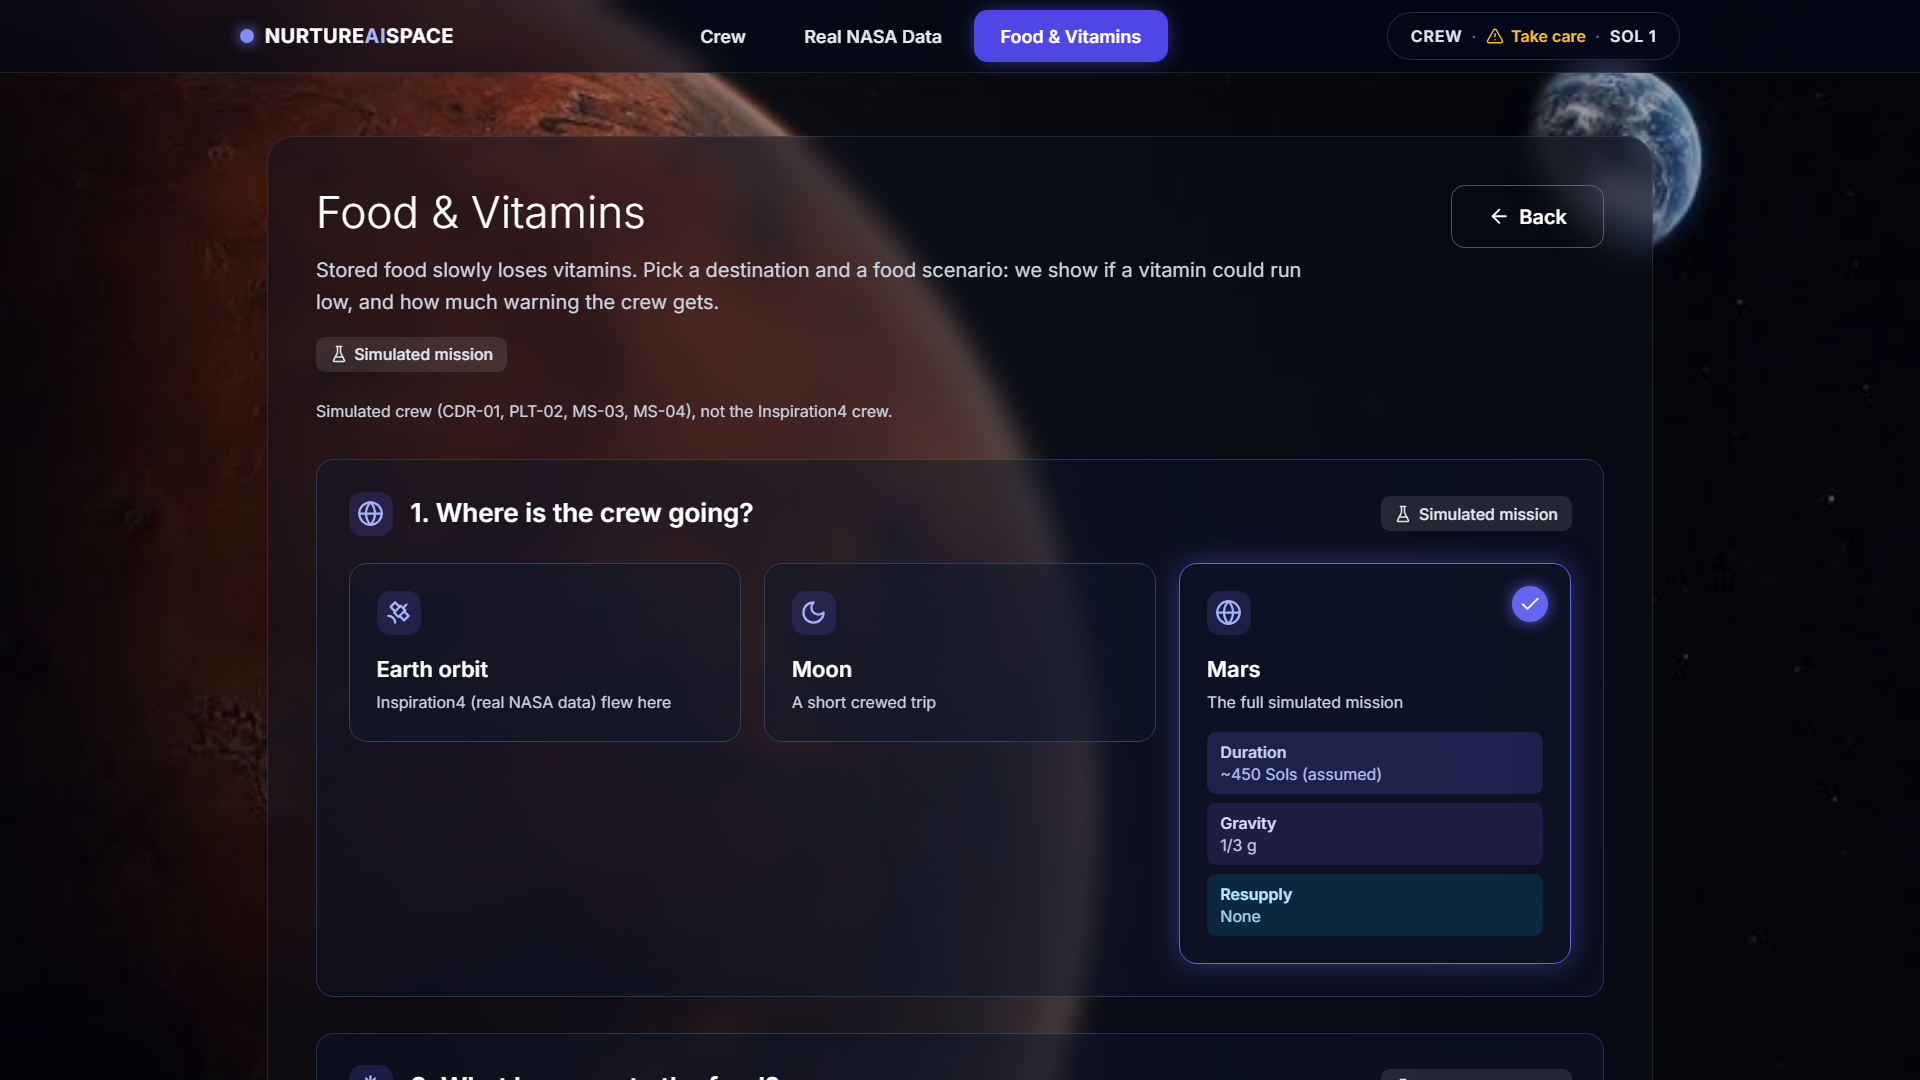
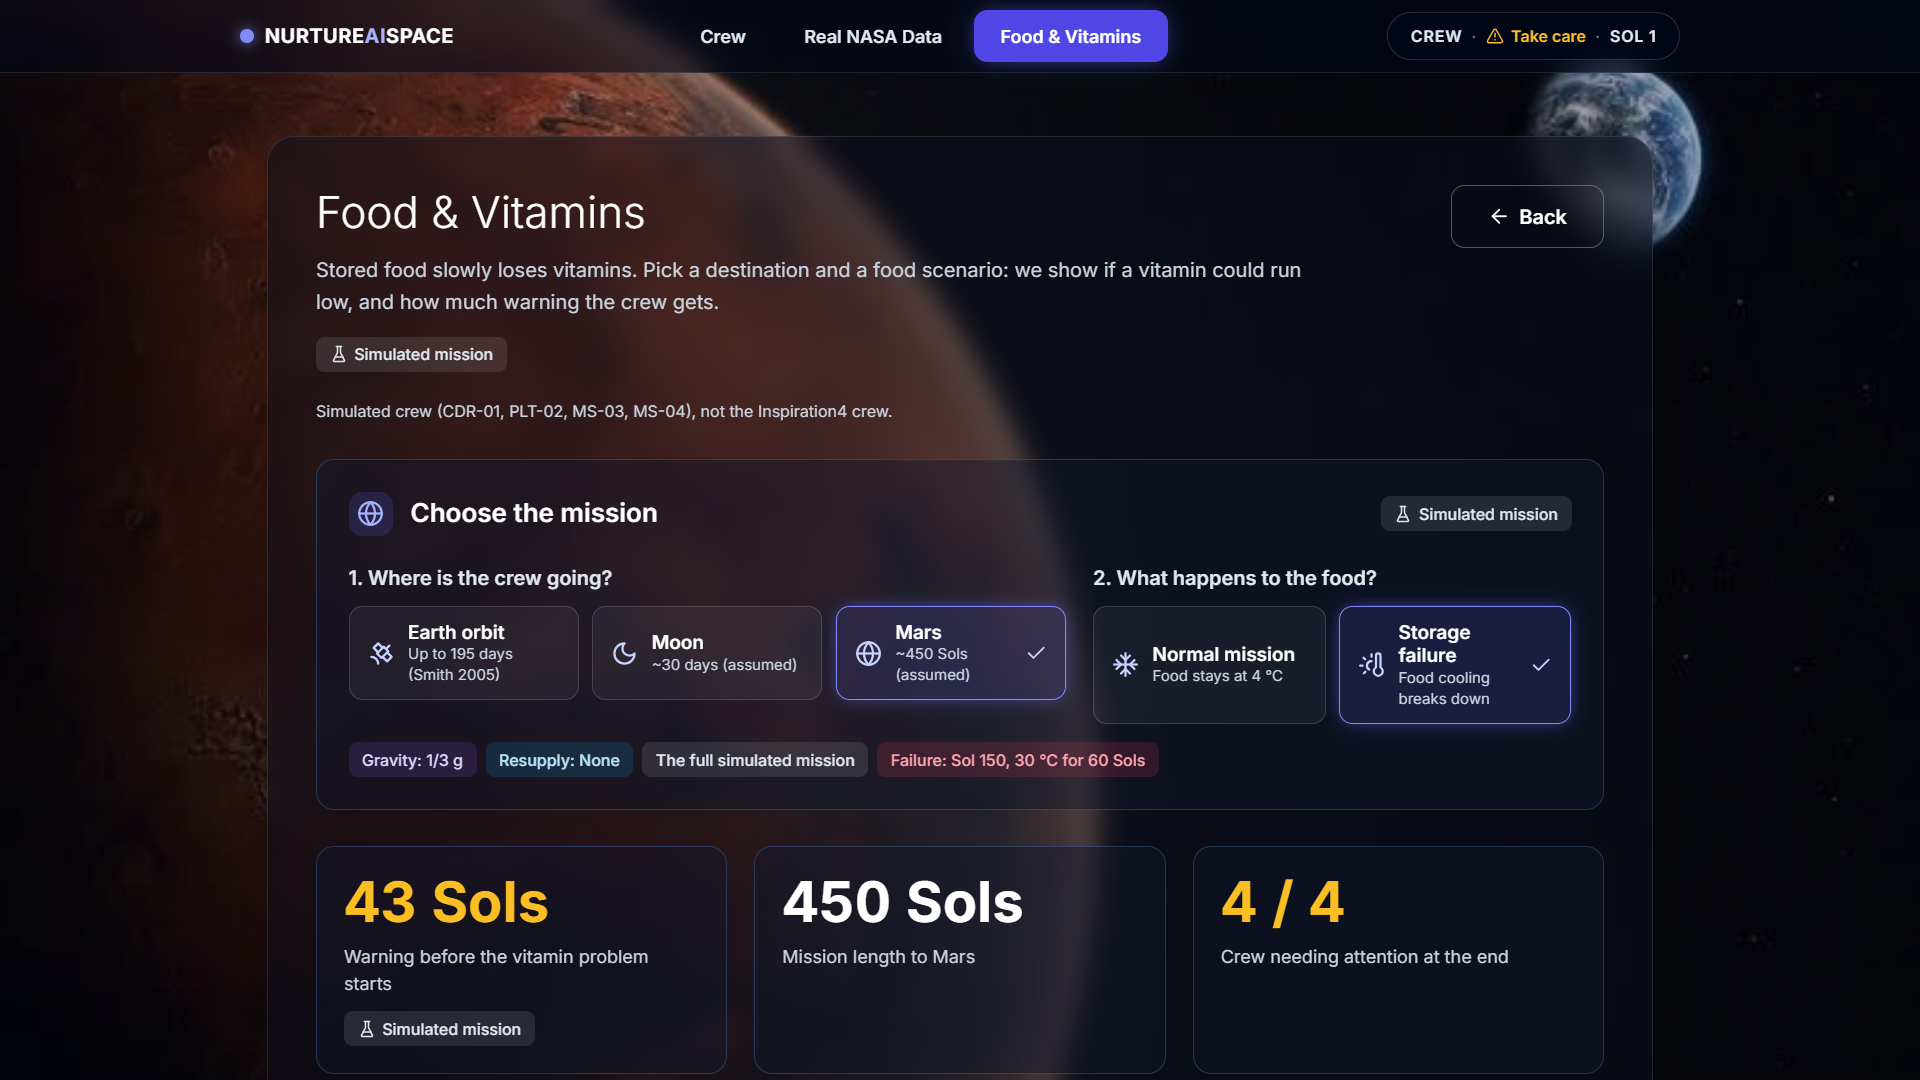
Food: headline above fold, post-mission failure note, fewer tags

diff --git a/frontend/src/components/PredictionView.tsx b/frontend/src/components/PredictionView.tsx
@@ -5,13 +5,14 @@
 //   block holds every Sol/day number shown here (warning, problem, per-crew vitamins, cooling failure, mission end).
 // A destination changes only the mission length (forecast horizon); the model is the same for all three.
 import React, { useEffect, useState } from 'react';
+import type { LucideIcon } from 'lucide-react';
 import {
-  ArrowRight, Flag, Globe, Moon, Pill, Satellite, ShieldAlert, Snowflake, ThermometerSun, Users,
+  ArrowRight, Check, Flag, Globe, Moon, Pill, Satellite, ShieldAlert, Snowflake, ThermometerSun, Users,
 } from 'lucide-react';
 import { fetchCrewPresetHorizon, fetchCrewScenarios } from '../api';
 import type { CrewDestination, CrewHealthSnapshot, CrewHorizon, CrewMemberStatus, CrewScenarioPreset, SolDay } from '../types';
 import {
-  Bullets, Details, ErrorBox, GlassPanel, KVList, KVRow, Loading, Section, SelectCard, SourceTag, StatTile, StatusBadge,
+  Bullets, Chip, Details, ErrorBox, GlassPanel, KVList, KVRow, Loading, Section, SourceTag, StatTile, StatusBadge,
 } from '../ui/glass';
 
 const NORMAL_ID = 'nominal';
@@ -158,6 +159,40 @@ const VitaminCard: React.FC<{ m: CrewMemberStatus; v: CrewHorizon['per_astronaut
   </div>
 );
 
+/** Compact one-row selector (icon + title + one line). Selected = indigo border + check. */
+const OptionButton: React.FC<{ selected: boolean; onClick: () => void; icon: LucideIcon; title: string; line: string }> = ({
+  selected, onClick, icon: I, title, line,
+}) => (
+  <button type="button" onClick={onClick} aria-pressed={selected} data-selected={selected}
+    className={`flex min-h-[72px] w-full items-center gap-3 rounded-xl border px-4 py-3 text-left transition ${
+      selected ? 'border-indigo-400 bg-indigo-500/15 shadow-[0_0_18px_-4px_rgba(99,102,241,0.8)]' : 'border-white/15 bg-white/5 hover:border-white/30'}`}>
+    <I className="h-6 w-6 shrink-0 text-indigo-200" aria-hidden />
+    <span className="min-w-0 flex-1">
+      <span className="block text-[19px] font-semibold leading-tight text-white">{title}</span>
+      <span className="block text-[15px] leading-snug text-slate-300">{line}</span>
+    </span>
+    {selected && <Check className="h-5 w-5 shrink-0 text-indigo-200" aria-hidden />}
+  </button>
+);
+
+/** Headline answer: lead time, "all OK", or "the failure starts after this mission ends" (all values from the API). */
+const Headline: React.FC<{ h: CrewHorizon; u: ReturnType<typeof unitFormat>; failureSelected: boolean }> = ({ h, u, failureSelected }) => {
+  const cf = h.cooling_failure;
+  if (failureSelected && cf && cf.start.sol > h.horizon_sols) {
+    const sol = u.word === 'Sols';
+    const n = sol ? h.horizon_sols : h.horizon_days;
+    return (
+      <StatTile value="No effect" tone="text-nominal" source={<SourceTag kind="simulated" />}
+        label={`This failure would start on ${u.at(cf.start)} — after this ${n}-${sol ? 'Sol' : 'day'} mission ends, so it has no effect.`} />
+    );
+  }
+  return h.first_warning ? (
+    <StatTile value={u.lead(h.first_warning)} tone="text-watch" label="Warning before the vitamin problem starts" source={<SourceTag kind="simulated" />} />
+  ) : (
+    <StatTile value="All OK" tone="text-nominal" label="Vitamins last the whole mission" source={<SourceTag kind="simulated" />} />
+  );
+};
+
 export const PredictionView: React.FC<{ onBack?: () => void; onNavigate?: (tab: string) => void }> = ({ onBack, onNavigate }) => {
   const [presets, setPresets] = useState<CrewScenarioPreset[]>([]);
   const [destinations, setDestinations] = useState<CrewDestination[]>([]);
@@ -211,45 +246,46 @@ export const PredictionView: React.FC<{ onBack?: () => void; onNavigate?: (tab: 
         </p>
       )}
 
-      <Section icon={Globe} title="1. Where is the crew going?" right={sim}>
+      <Section icon={Globe} title="Choose the mission" right={sim}>
         {!destinations.length && !error && <Loading />}
-        <div className="grid grid-cols-1 items-start gap-5 md:grid-cols-3">
-          {destinations.map((d) => (
-            <SelectCard key={d.id} selected={d.id === destId} onClick={() => setDestId(d.id)} icon={DEST_ICON[d.id] ?? Globe}
-              title={d.label} subtitle={DEST_META[d.id] ?? durationText(d)}
-              chips={[
-                { tone: 'blue', label: 'Duration', text: durationText(d) },
-                { tone: 'violet', label: 'Gravity', text: d.gravity },
-                { tone: 'sky', label: 'Resupply', text: d.resupply },
-              ]}
-              extra={d.id === 'earth_orbit' && onNavigate ? (
-                <button type="button" onClick={() => onNavigate('realdata')}
-                  className="inline-flex min-h-[48px] items-center gap-2 text-[18px] font-semibold text-indigo-200 hover:text-white">
-                  See the real NASA data <ArrowRight className="h-5 w-5" aria-hidden />
-                </button>
-              ) : undefined}
-            />
-          ))}
+        <div className="grid grid-cols-1 gap-6 xl:grid-cols-[3fr_2fr]">
+          <div>
+            <h3 className="mb-3 text-[20px] font-semibold text-slate-200">1. Where is the crew going?</h3>
+            <div className="grid grid-cols-1 gap-3 sm:grid-cols-3">
+              {destinations.map((d) => (
+                <OptionButton key={d.id} selected={d.id === destId} onClick={() => setDestId(d.id)}
+                  icon={DEST_ICON[d.id] ?? Globe} title={d.label} line={durationText(d)} />
+              ))}
+            </div>
+          </div>
+          <div>
+            <h3 className="mb-3 text-[20px] font-semibold text-slate-200">2. What happens to the food?</h3>
+            <div className="grid grid-cols-1 gap-3 sm:grid-cols-2">
+              <OptionButton selected={selected === NORMAL_ID} onClick={() => setSelected(NORMAL_ID)} icon={Snowflake}
+                title="Normal mission" line={typeof normalTemp === 'number' ? `Food stays at ${normalTemp} °C` : 'Food stays cold'} />
+              <OptionButton selected={selected === FAILURE_ID} onClick={() => setSelected(FAILURE_ID)} icon={ThermometerSun}
+                title="Storage failure" line="Food cooling breaks down" />
+            </div>
+          </div>
         </div>
-      </Section>
-
-      <Section icon={Snowflake} title="2. What happens to the food?" right={sim}>
-        <div className="grid grid-cols-1 items-start gap-5 md:grid-cols-2">
-          <SelectCard selected={selected === NORMAL_ID} onClick={() => setSelected(NORMAL_ID)} icon={Snowflake}
-            title="Normal mission" subtitle="Food stays cold the whole time"
-            chips={[
-              { tone: 'blue', label: 'Storage', text: typeof normalTemp === 'number' ? `${normalTemp} °C all mission` : 'Cold all mission' },
-              { tone: 'green', label: 'Greenhouse', text: 'Online' },
-              { tone: 'neutral', label: 'Vitamin loss', text: 'Normal slow rate' },
-            ]} />
-          <SelectCard selected={selected === FAILURE_ID} onClick={() => setSelected(FAILURE_ID)} icon={ThermometerSun}
-            title="Storage failure" subtitle="Food cooling breaks down mid-mission"
-            chips={cf ? [
-              { tone: 'red', label: 'Starts', text: cf.in_mission ? u.at(cf.start) : `${u.at(cf.start)} (after this mission)` },
-              { tone: 'amber', label: 'Peak', text: `${cf.peak_temp_c} °C for ${dest?.unit === 'sol' ? `${cf.duration_sols} Sols` : `${cf.duration_days} days`}` },
-              { tone: 'neutral', label: 'Greenhouse', text: 'Offline after the failure' },
-            ] : undefined} />
-        </div>
+        {dest && (
+          <div className="mt-4 flex flex-wrap items-center gap-2">
+            <Chip tone="violet">Gravity: {dest.gravity}</Chip>
+            <Chip tone="sky">Resupply: {dest.resupply}</Chip>
+            {DEST_META[dest.id] && <Chip tone="neutral">{DEST_META[dest.id]}</Chip>}
+            {selected === FAILURE_ID && cf && (
+              <Chip tone="red">
+                Failure: {u.at(cf.start)}, {cf.peak_temp_c} °C for {dest.unit === 'sol' ? `${cf.duration_sols} Sols` : `${cf.duration_days} days`}
+              </Chip>
+            )}
+            {dest.id === 'earth_orbit' && onNavigate && (
+              <button type="button" onClick={() => onNavigate('realdata')}
+                className="inline-flex min-h-[44px] items-center gap-2 px-2 text-[18px] font-semibold text-indigo-200 hover:text-white">
+                See the real NASA data <ArrowRight className="h-5 w-5" aria-hidden />
+              </button>
+            )}
+          </div>
+        )}
       </Section>
 
       {error && <ErrorBox>{error}</ErrorBox>}
@@ -258,14 +294,10 @@ export const PredictionView: React.FC<{ onBack?: () => void; onNavigate?: (tab: 
       {snap && h && dest && (
         <>
           <div className="grid grid-cols-1 gap-6 md:grid-cols-3">
-            {h.first_warning ? (
-              <StatTile value={u.lead(h.first_warning)} tone="text-watch" label="Warning before the vitamin problem starts" source={sim} />
-            ) : (
-              <StatTile value="All OK" tone="text-nominal" label="Vitamins last the whole mission" source={sim} />
-            )}
-            <StatTile value={u.length(h)} label={`Mission length to ${dest.label}`} source={sim} />
+            <Headline h={h} u={u} failureSelected={selected === FAILURE_ID} />
+            <StatTile value={u.length(h)} label={`Mission length to ${dest.label}`} />
             <StatTile value={`${attention} / ${snap.crew.length}`} tone={attention ? 'text-watch' : 'text-white'}
-              label="Crew needing attention at the end" source={sim} />
+              label="Crew needing attention at the end" />
           </div>
 
           <Section icon={Flag} title="Mission timeline" right={sim}>

diff --git a/frontend/src/components/CrewHealthView.tsx b/frontend/src/components/CrewHealthView.tsx
@@ -113,12 +113,15 @@ export const CrewHealthView: React.FC<{ crew: CrewCheckinsState; onNavigate: (ta
       )}
 
       <div className="grid grid-cols-1 gap-6 lg:grid-cols-[1.4fr_1fr_1fr]">
-        <Section icon={Globe} title="Mission" right={seats ? <SeatSources seats={seats} /> : undefined}>
+        <Section icon={Globe} title="Mission">
           <KVList>
-            <KVRow label="Destination" value={destination ?? '—'} />
+            <KVRow label="Destination" value={
+              <span className="inline-flex flex-wrap items-center justify-end gap-2">{destination ?? '—'} <SourceTag kind="simulated" /></span>} />
             <KVRow label="Crew size" value={seats ? seats.length : '—'} />
             <KVRow label="Current Sol" value={currentSol ?? '—'} />
-            <KVRow label="Check-ins today" value={seats ? `${checkedInToday} / ${seats.length}` : '—'} />
+            <KVRow label="Check-ins today" value={seats ? (
+              <span className="inline-flex flex-wrap items-center justify-end gap-2">{`${checkedInToday} / ${seats.length}`} <SeatSources seats={seats} /></span>
+            ) : '—'} />
           </KVList>
         </Section>
         <StatTile label="All readings in range" value={seats ? allGood : '—'} tone="text-nominal"
